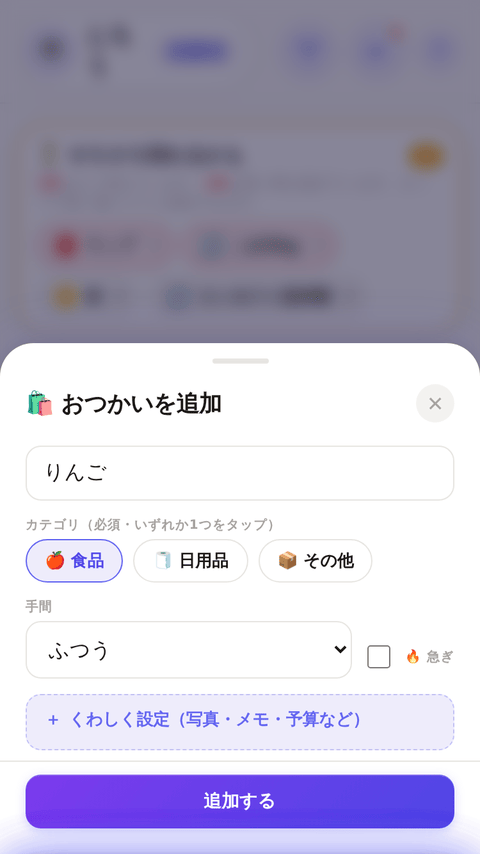
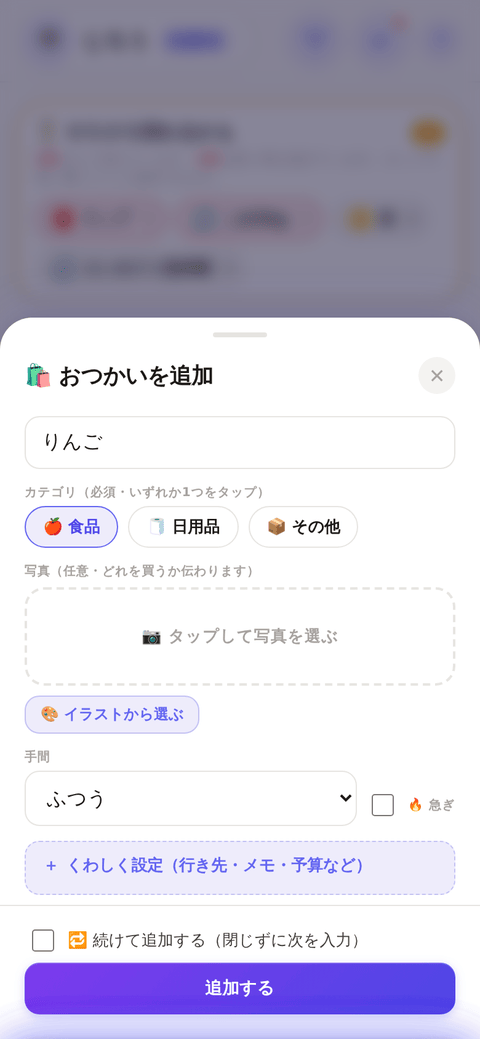
📣 公開済みのお知らせ記事を最新のUIに合わせて修正
「続けて追加・アイコン増量など、5つアップデートしました」の公開後、
写真の基本位置移動とプロフィール絵文字のタブ化を続けて出したため、
記事の説明とスクショが古い仕様のままになっていた分を直した。

- 「おつかい追加シートをコンパクトに」: 写真がくわしく設定の中にある
  説明だったのを、基本位置（カテゴリの下）に見える現在の仕様に修正
- 「プレイヤーの絵文字アイコン」: 「4分類から選べます」→
  「4つのボタンタブで切り替えて選べます」に修正
- 両項目のスクショ3枚を最新UIで撮り直し
- id・並び順・日付は変更なし（先頭の記事は変わらないため、既読の端末に
  モーダル・赤丸が再度出ることはない）
- sw.js の CACHE を v146 に

Claude-Session: https://claude.ai/code/session_013Sh1XBCpeNBzayjahQXFzf

diff --git a/news.js b/news.js
@@ -29,10 +29,10 @@ const NEWS = [
         body: "おつかい追加シートの下部にチェックを入れると、追加してもシートが閉じずに次の品名入力へ進みます。<b>カテゴリ・行き先は残る</b>ので、同じ売り場のものをまとめて登録するときに便利です。チェックを外せばこれまでどおり、追加後に閉じます。",
         shots: ["docs/screenshots/news/2026-09/continue-add.png"] },
       { kind: "improve", label: "見やすさ", title: "おつかい追加シートをコンパクトに",
-        body: "開いた直後に見えるのは <b>品名・カテゴリ・手間/急ぎ・追加ボタン</b> だけにしました。写真・行き先・予算・ブランド・メモ・担当者は「＋ くわしく設定」を押すと開きます。閉じたままでも「設定あり: 予算・メモ」のように何を入れたか一目で分かります。",
+        body: "開いた直後に見えるのは <b>品名・カテゴリ・写真・手間/急ぎ・追加ボタン</b> だけにしました。行き先・予算・ブランド・メモ・担当者は「＋ くわしく設定」を押すと開きます。閉じたままでも「設定あり: 予算・メモ」のように何を入れたか一目で分かります。",
         shots: ["docs/screenshots/news/2026-09/add-sheet-compact.png", "docs/screenshots/news/2026-09/add-sheet-summary.png"] },
       { kind: "improve", label: "アイコン", title: "プレイヤーの絵文字アイコンを24種→60種に",
-        body: "設定タブ・新規プロフィール作成のどちらでも、<b>😀表情・🐾どうぶつ・🧑ひと・🎈のりもの/すきなもの</b> の4分類から選べます。件数が増えても見出しで探しやすくしました。",
+        body: "設定タブ・新規プロフィール作成のどちらでも、<b>😀表情・🐾どうぶつ・🧑ひと・🎈のりもの/すきなもの</b> の4つのボタンタブで切り替えて選べます。件数が増えてもタブで探しやすくなりました。",
         shots: ["docs/screenshots/news/2026-09/emoji-groups.png"] },
       { kind: "improve", label: "イラスト", title: "🎨イラストから選ぶピッカーをタブ切り替えに",
         body: "分類が12まで増えたので、上部のタブで切り替えられるようにしました。開くと🥬野菜タブから始まり、タブを押すとその分類だけが表示されます。検索欄に入れると、タブに関係なく全分類から絞り込めます。",

diff --git a/sw.js b/sw.js
@@ -3,7 +3,7 @@
 // ・Firebase SDK（gstatic.com）や設定・アイコンなどの静的アセットはプリキャッシュし、
 //   キャッシュ優先で返す（圏外でもアプリが起動できるように）。
 // アプリ本体 = app.html、紹介ページ = index.html（ルート）、プロジェクトハブ = hub.html。
-const CACHE = "otsukai-v145";
+const CACHE = "otsukai-v146";
 
 const PRECACHE = [
   "./app.html",
